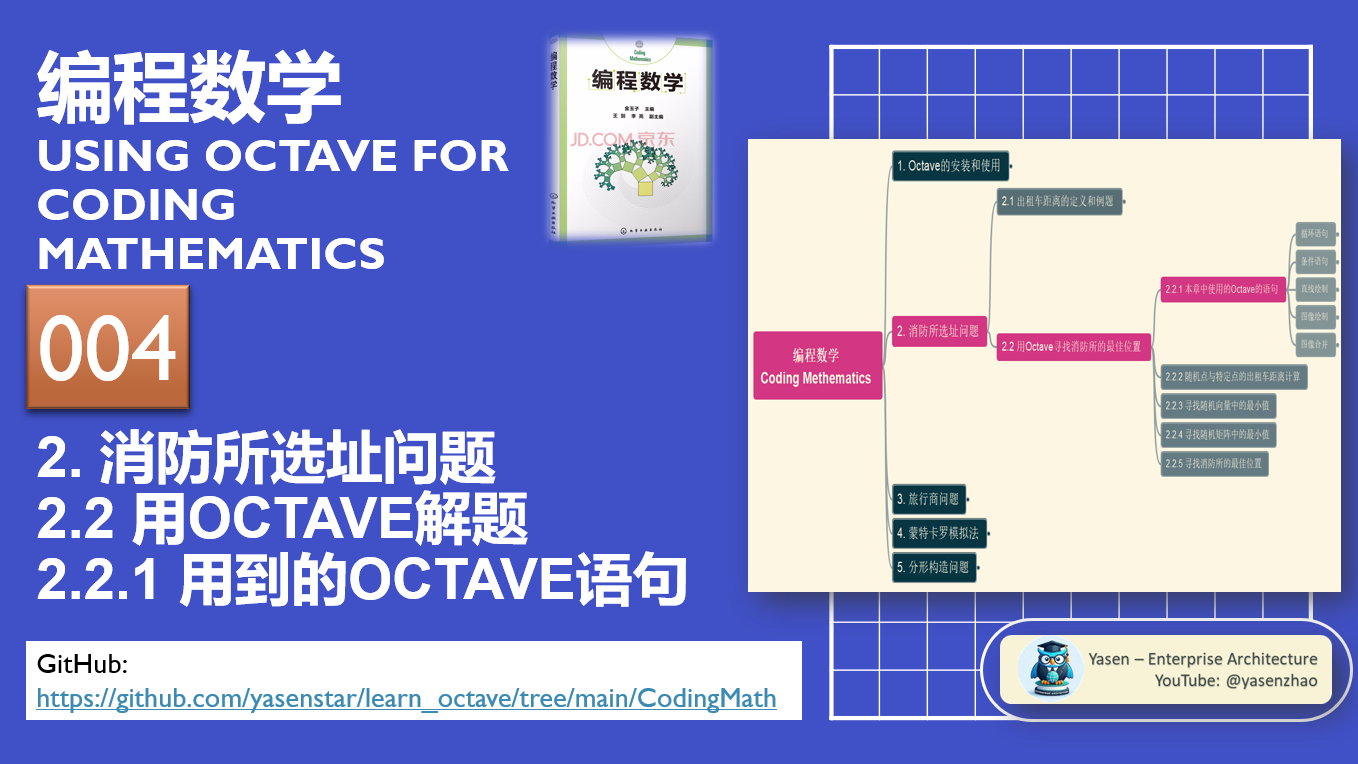
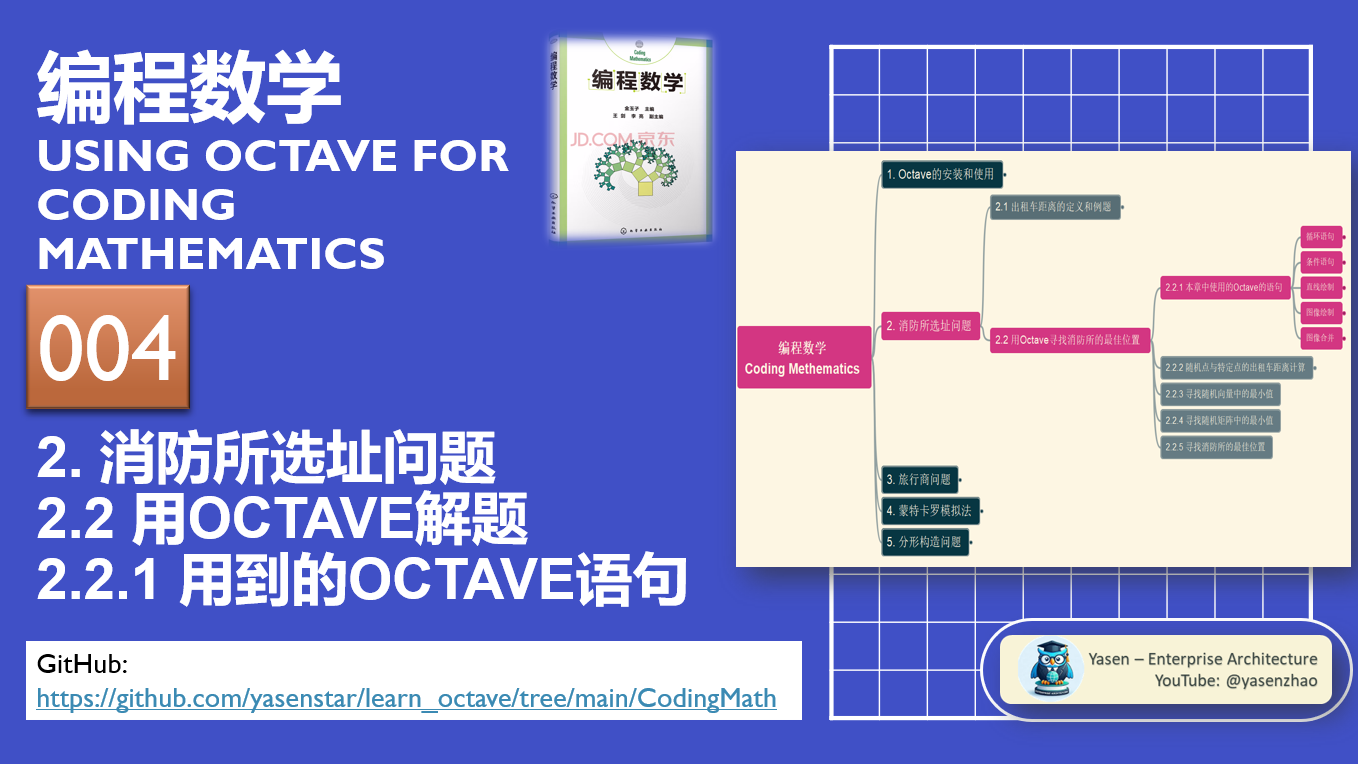
prepare 004

Changed region(s): [[0.5258, 0.1806, 1.0, 0.8128], [0.7113, 0.3312, 0.7423, 0.3613]]

diff --git a/CodingMath/CodingMethematics.mm b/CodingMath/CodingMethematics.mm
@@ -94,6 +94,9 @@
 <node TEXT="清理内存" ID="ID_769285590" CREATED="1710280027095" MODIFIED="1710280033227">
 <node TEXT="clear" ID="ID_1483933321" CREATED="1710280033230" MODIFIED="1710280035360"/>
 </node>
+<node TEXT="清除Command History" ID="ID_584118231" CREATED="1710286277369" MODIFIED="1710286289851">
+<node TEXT="history -c" ID="ID_808518051" CREATED="1710286289852" MODIFIED="1710286294167"/>
+</node>
 </node>
 </node>
 <node TEXT="2. 消防所选址问题" POSITION="bottom_or_right" ID="ID_1329446901" CREATED="1710268586295" MODIFIED="1710268595750">
@@ -115,8 +118,20 @@
 </node>
 <node TEXT="2.2 用Octave寻找消防所的最佳位置" ID="ID_787464526" CREATED="1710268662080" MODIFIED="1710268679374">
 <node TEXT="2.2.1 本章中使用的Octave的语句" ID="ID_1339613255" CREATED="1710268985805" MODIFIED="1710269079078">
-<node TEXT="循环语句" ID="ID_1936939594" CREATED="1710279801183" MODIFIED="1710279810072">
+<node TEXT="循环语句" FOLDED="true" ID="ID_1936939594" CREATED="1710279801183" MODIFIED="1710279810072">
 <node TEXT="for 反复次数=初始值:最终值&#xa;        命令1&#xa;        命令2&#xa;        ...&#xa;end" ID="ID_834102633" CREATED="1710279810074" MODIFIED="1710279853849"/>
+</node>
+<node TEXT="条件语句" FOLDED="true" ID="ID_1210481010" CREATED="1710280062500" MODIFIED="1710280068605">
+<node TEXT="if 条件语句&#xa;命令集合（条件语句为真的情况下的执行部分）&#xa;endif" ID="ID_1892648831" CREATED="1710280068607" MODIFIED="1710280078263"/>
+</node>
+<node TEXT="直线绘制" FOLDED="true" ID="ID_43549718" CREATED="1710280111935" MODIFIED="1710285770430">
+<node TEXT="line([x1 x2],[y1 y2])" ID="ID_975130080" CREATED="1710280121474" MODIFIED="1710285684126"/>
+</node>
+<node TEXT="图像绘制" FOLDED="true" ID="ID_1036359059" CREATED="1710285770926" MODIFIED="1710285782471">
+<node TEXT="plot(x, y, &apos;线的形态符号&apos;, &apos;属性名‘, 属性值)" ID="ID_1931622525" CREATED="1710285782472" MODIFIED="1710285810111"/>
+</node>
+<node TEXT="图像合并" FOLDED="true" ID="ID_1097316159" CREATED="1710285843720" MODIFIED="1710285847842">
+<node TEXT="hold on" ID="ID_471471610" CREATED="1710285847845" MODIFIED="1710285849681"/>
 </node>
 </node>
 <node TEXT="2.2.2 随机点与特定点的出租车距离计算" ID="ID_814656179" CREATED="1710269001499" MODIFIED="1710269074749"/>
@@ -125,7 +140,7 @@
 <node TEXT="2.2.5 寻找消防所的最佳位置" ID="ID_1601966956" CREATED="1710269041173" MODIFIED="1710269057166"/>
 </node>
 </node>
-<node TEXT="3. 旅行商问题" POSITION="bottom_or_right" ID="ID_139222882" CREATED="1710268595913" MODIFIED="1710268604109">
+<node TEXT="3. 旅行商问题" FOLDED="true" POSITION="bottom_or_right" ID="ID_139222882" CREATED="1710268595913" MODIFIED="1710268604109">
 <node TEXT="3.1 什么是旅行商问题" ID="ID_1688610845" CREATED="1710268682376" MODIFIED="1710268690143"/>
 <node TEXT="3.2 用Octave找出快递的最短配送路径" FOLDED="true" ID="ID_1797945118" CREATED="1710268690354" MODIFIED="1710268704853">
 <node TEXT="3.2.1 本章中使用的Octave的语句" ID="ID_1074697211" CREATED="1710269093214" MODIFIED="1710269106422"/>
@@ -135,7 +150,7 @@
 <node TEXT="3.2.5 利用遗传算法寻找最优路径2" ID="ID_488823846" CREATED="1710269157653" MODIFIED="1710269160407"/>
 </node>
 </node>
-<node TEXT="4. 蒙特卡罗模拟法" POSITION="bottom_or_right" ID="ID_1163030684" CREATED="1710268604259" MODIFIED="1710268614752">
+<node TEXT="4. 蒙特卡罗模拟法" FOLDED="true" POSITION="bottom_or_right" ID="ID_1163030684" CREATED="1710268604259" MODIFIED="1710268614752">
 <node TEXT="4.1 概率：投掷硬币、掷骰(tou2)子" FOLDED="true" ID="ID_1772453906" CREATED="1710268708713" MODIFIED="1710268763934">
 <node TEXT="4.1.1 投掷硬币" ID="ID_223961029" CREATED="1710269166019" MODIFIED="1710269176773"/>
 <node TEXT="4.1.2 掷骰子" ID="ID_1240145071" CREATED="1710269176989" MODIFIED="1710269182244"/>
@@ -153,7 +168,7 @@
 <node TEXT="4.2.10 三维空间中两点间的距离问题" ID="ID_410138054" CREATED="1710269308319" MODIFIED="1710269317959"/>
 </node>
 </node>
-<node TEXT="5. 分形构造问题" POSITION="bottom_or_right" ID="ID_826794014" CREATED="1710268614885" MODIFIED="1710268624737">
+<node TEXT="5. 分形构造问题" FOLDED="true" POSITION="bottom_or_right" ID="ID_826794014" CREATED="1710268614885" MODIFIED="1710268624737">
 <node TEXT="5.1 何谓分形" ID="ID_1334469267" CREATED="1710268783666" MODIFIED="1710268791314"/>
 <node TEXT="5.2 运用Octave以编码实现分形构造" FOLDED="true" ID="ID_154751699" CREATED="1710268791619" MODIFIED="1710268813117">
 <node TEXT="5.2.1 本章中使用的Octave的语句" POSITION="bottom_or_right" ID="ID_1464514463" CREATED="1710269323973" MODIFIED="1710269341990"/>
